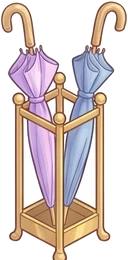
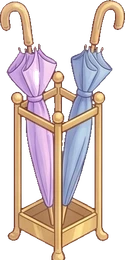
Build 501: reception umbrellas re-cut (Maria, IMG_9858: «Зонтики плохо вырезаны»): the white background showing through the brass stand is gone; picture versions bumped so phones reload it

diff --git a/js/game.js b/js/game.js
@@ -1,17 +1,17 @@
 // Magic school idle tycoon — v0.3: isometric campus with walking creatures.
 import './clock.js?v=470';   // build audit 2026-11-24: trusted clock (server time), must stay the first import
-import './edit_guard.js?v=500';   // room editor (?edit only): in-memory storage, no cloud
+import './edit_guard.js?v=501';   // room editor (?edit only): in-memory storage, no cloud
 import {
   OFFLINE_CAP_SEC, MAX_DESKS, MAX_ITEM_LEVEL, MAX_TEACHER_LEVEL, MAX_TIME_LEVEL,
   CLASSES, SPECIES, NAMES, MISSIONS, WORLDS, WORLD, META,
-} from './data.js?v=500';
-import { EMOJI_RE, emojiImage, preloadEmoji, watchEmoji, emojiHtml } from './emoji.js?v=500';
-import { initMinigame } from './minigame.js?v=500';
-import { initChests } from './chests.js?v=500';
-import { initValley } from './valley.js?v=500';
-import { log as glog, tail as gtail, entries as gentries, lineOf as gline, dump as gdump } from './gamelog.js?v=500';
-import { initLore } from './lore.js?v=500';
-import { initAvatar } from './avatar.js?v=500';
+} from './data.js?v=501';
+import { EMOJI_RE, emojiImage, preloadEmoji, watchEmoji, emojiHtml } from './emoji.js?v=501';
+import { initMinigame } from './minigame.js?v=501';
+import { initChests } from './chests.js?v=501';
+import { initValley } from './valley.js?v=501';
+import { log as glog, tail as gtail, entries as gentries, lineOf as gline, dump as gdump } from './gamelog.js?v=501';
+import { initLore } from './lore.js?v=501';
+import { initAvatar } from './avatar.js?v=501';
 // mini-game «Зельеварка» (match-3, js/minigame.js): a pill on the main screen, its own overlay; the school keeps living under it
 const MG = initMinigame({ state: () => S, earn: (n) => bonus(n), rate: () => rateNow(), save: () => save(), stones: () => stones(), spendStones: (n) => stonesAdd(-n), toast: (t) => toast(t), fmt: (n) => fmt(n), emojiHtml, emojiImage,
   audioOut: () => { if (!sfxOn() || document.hidden) return null; const c = audio(); return c && c.state === 'running' ? { c, out: AOUT } : null; },
@@ -36,7 +36,7 @@ const LORE = initLore({ state: () => S, save: () => save(), emojiHtml, on: () =>
 const SAVE_KEY = WORLD === 1 ? 'magicschool.save.v2' : 'magicschool.save.v2.w' + WORLD;   // every world keeps its own save
 const saveKeyOf = (w) => (w === 1 ? 'magicschool.save.v2' : 'magicschool.save.v2.w' + w);
 const VERSION = '0.9';
-const BUILD = 500;   // keep equal to the ?v= number in index.html
+const BUILD = 501;   // keep equal to the ?v= number in index.html
 const $ = (s, r = document) => r.querySelector(s);
 const rnd = (a) => a[Math.floor(Math.random() * a.length)];
 
@@ -526,7 +526,7 @@ if (!window.__EDIT) THEMES.REC = { dir: 'assets/parts/reception/', wallTiles: 4,
 const parts = {};
 let partsVer = 0;   // bumped on every part load: themeReady() answers from its cache until then
 for (const [k, t] of Object.entries(THEMES)) if (!!t.w2 === (WORLD === 2)) for (const n of new Set(['wall', 'floor', t.rug, ...(t.isoOnly ? [] : [t.board, ...t.decor]), ...t.back, ...t.side, ...t.front, ...(t.stations || []), ...(t.seats || []), ...(t.beds || []), ...(t.load || []), ...(t.extras ? t.extras({ x0: 0, y0: 0, x1: 0, y1: 0 }).map((o) => o.n) : []), ...(t.teacherProp ? [t.teacherProp] : []), ...(t.iso && !t.bays ? [t.board, ...t.decor].map((d) => 'iso_' + d) : [])])) {
-  if (!n) continue; const im = new Image(); im.onload = () => { partsVer++; }; im.src = `${t.dir}${n}.webp?v=2202`; parts[k + '/' + n] = im;
+  if (!n) continue; const im = new Image(); im.onload = () => { partsVer++; }; im.src = `${t.dir}${n}.webp?v=${n === 'rc_umbrellas' ? 2203 : 2202}`; parts[k + '/' + n] = im;
 }
 for (const [n, f] of [['wall', 'el_arcade'], ['floor', 'el_floor'], ...['el_med_fire', 'el_med_water', 'el_med_earth', 'el_med_air', 'el_win_a', 'el_win_b', 'el_painting'].map((q) => [q, q])]) { const im = new Image(); im.onload = () => { partsVer++; staticKey = ''; }; im.src = `assets/parts/items/${f}.webp?v=3`; if (WORLD === 1) parts['elements/' + n] = im; }   // Elements: the concept's arcade wall and what hangs in its arches
 for (const n of ['wall', 'floor']) { const im = new Image(); im.onload = () => { partsVer++; staticKey = ''; }; im.src = `assets/parts/items/fl_${n}.webp?v=1`; if (WORLD === 1) parts['flight/' + n] = im; }   // Flight redesign
@@ -3728,7 +3728,7 @@ const LAY_ENT = [], LAY_WALLS = {}, LAY_SEEN = {}, LAY_IMS = {}, texCache = new 
 let layCur = null, layHangN = {};
 function setLayout(L) { RLAY = L && L.rooms ? L : { v: 1, rooms: {} }; LAY_VER++; texCache.clear(); }
 if (!EDIT) fetch('layouts/layouts.json?v=458').then((r) => (r.ok ? r.json() : null)).then((j) => { if (j && j.rooms && Object.keys(j.rooms).length) setLayout(j); }).catch(() => {});
-const layIm = (src) => { let im = LAY_IMS[src]; if (!im) { im = LAY_IMS[src] = new Image(); im.src = `assets/parts/${src}.webp?v=e1`; } return im.complete && im.naturalWidth ? im : null; };
+const layIm = (src) => { let im = LAY_IMS[src]; if (!im) { im = LAY_IMS[src] = new Image(); im.src = `assets/parts/${src}.webp?v=${src === 'reception/rc_umbrellas' ? 'e2' : 'e1'}`; } return im.complete && im.naturalWidth ? im : null; };
 function texPart(th, n) {   // the wall / floor texture of a room, recoloured or swapped by the layout
   const base = part(th, n), o = RLAY.rooms[th] && RLAY.rooms[th][n]; if (!o || (!o.tex && !o.col)) return base;
   const key = th + '/' + n + '/' + LAY_VER; if (texCache.has(key)) return texCache.get(key);
@@ -7260,5 +7260,5 @@ if (EDIT) {   // room editor: js/editor.js gets the game's room tools
     get zoom() { return zoom; }, get scale() { return scale; }, get dpr() { return dpr; }, scroller, canvas,
     get layout() { return RLAY; }, setLayout, entries: () => LAY_ENT.slice(), walls: (th) => (LAY_WALLS[th] || []).slice(), layPos, layIm, texPart, thumb: (n, th) => { const im = n && (ITEM_IMS[n] || parts[th + '/' + n] || parts[th + '/iso_' + n] || LAY_IMS[n]); return im ? im.src : ''; },
     zoomAt: (z, x, y) => { setZoom(z, 0, 0, 0, 0); focusTile(x, y, false); } };
-  import('./editor.js?v=500').then((m) => m.initEditor(window.__EDIT_API)).catch((e) => { console.error(e); alert('Редактор не загрузился: ' + e.message); });
+  import('./editor.js?v=501').then((m) => m.initEditor(window.__EDIT_API)).catch((e) => { console.error(e); alert('Редактор не загрузился: ' + e.message); });
 }

diff --git a/index.html b/index.html
@@ -12,7 +12,7 @@
 <link rel="manifest" href="manifest.webmanifest">
 <link rel="apple-touch-icon" href="icons/icon-180.png?v=2">
 <link rel="icon" href="icons/icon-192.png?v=2">
-<link rel="stylesheet" href="style.css?v=500">
+<link rel="stylesheet" href="style.css?v=501">
 <script>/* iOS home-screen app: innerHeight / 100% / 100dvh are short by the status bar, a strip stayed at the bottom (her screenshots, builds 200-203); use the real screen height */
 (function(){function fit(){if(!(navigator.standalone||matchMedia('(display-mode: standalone)').matches))return;var h=Math.max(window.innerHeight,(Math.abs(window.orientation||0)===90?screen.width:screen.height));var r=document.documentElement;r.style.height=h+'px';if(document.body){document.body.style.height=h+'px';document.body.style.bottom='auto';}}fit();addEventListener('DOMContentLoaded',fit);addEventListener('resize',fit);addEventListener('orientationchange',function(){setTimeout(fit,300);});})();</script>
 </head>
@@ -72,6 +72,6 @@ setTimeout(function(){ if (window.__booted) return; var d=document.createElement
   d.querySelector('button').onclick=function(){ location.reload(); }; document.body.appendChild(d); }, 12000);
 if(!CanvasRenderingContext2D.prototype.roundRect){CanvasRenderingContext2D.prototype.roundRect=function(x,y,w,h){this.rect(x,y,w,h);};}
 </script>
-<script type="module" src="js/game.js?v=500"></script>
+<script type="module" src="js/game.js?v=501"></script>
 </body>
 </html>

diff --git a/js/emoji.js b/js/emoji.js
@@ -1,6 +1,6 @@
 // One emoji look on every device: emoji characters are replaced by bundled Twemoji pictures
 // (CC-BY 4.0, https://github.com/jdecked/twemoji), both in the page (DOM) and on the canvas.
-import { EMOJI_FILES } from './emoji-set.js?v=500';
+import { EMOJI_FILES } from './emoji-set.js?v=501';
 
 export const EMOJI_RE = /\p{Extended_Pictographic}(?:|\p{Extended_Pictographic}?|[\u{1F3FB}-\u{1F3FF}])*/gu;
 
